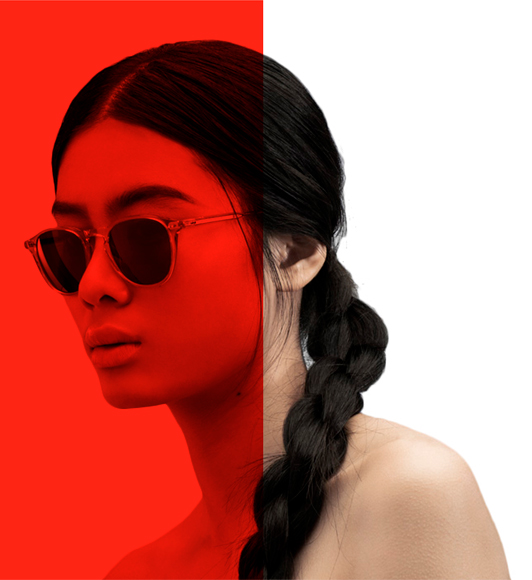
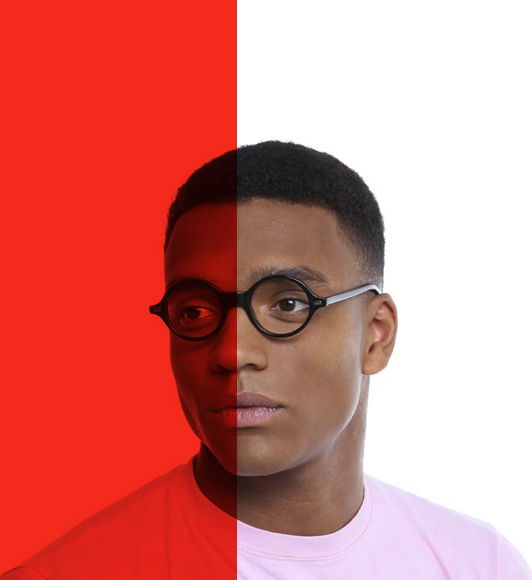
actual

diff --git a/vistas/css/main.css b/vistas/css/main.css
@@ -22,12 +22,12 @@ h1,h2,h3,h4,h5,h6,p {
 }
 h1,h2,h3,h4,h5,h6 { font-weight: 500; }
 h1 {
-  font-size: 1.35rem;
+  font-size: 3rem;
   line-height: 1.2;
 }
 h2 {
-  font-size: 2.488rem;
-  line-height: 1.25;
+  font-size: 1rem;
+  /* line-height: 1.25; */
 }
 h3 {
   font-size: 1rem;
@@ -421,29 +421,67 @@ li a[class*="icon-"]:hover{
   opacity: 0.9;
 }
 
-#slide {
-  position: relative;
+#slide, .slide1 {
+  position: absolute;
   height: 100vh;
+  display: flex;
+  align-items: center;
+}
+
+.slide2{
+  position: absolute;
+  height: 100vh;
+  display: flex;
+  align-items: center;
 }
 
 #slide > div li img {
-  width: auto;
+  max-width: 532px;
   position: absolute;
   bottom: 0;
   left: 0;
 }
 
 #slide ul {
-  width: 90%;
+  width: 100%;
   height: 100%;
-  display: flex;
-  justify-content: space-between;
-  align-items: center;
+  position: absolute;
+  top: 0;
 }
 
-.capa{
-  display: none;
+#slide ul li{
+  width: 50%;
 }
+
+.descripcion {
+  position: relative;
+}
+
+.descripcion span{
+  background-color: #f32a1c;;
+  width: auto;
+  padding: 3px;
+  color: #fff;
+}
+
+.descripcion h1 {
+  text-transform: uppercase;
+  font-weight: 600;
+   margin-top: 10px;
+}
+
+
+
+.descripcion button {
+  width: auto;
+  background-color: transparent;
+  color: #f32a1c;
+  border: 2px solid #f32a1c;
+  padding: .5rem;
+  margin-top: 10px;
+  text-transform: uppercase;
+}
+
 /* Desktops and laptops ----------- */
 @media only screen 
 and (min-width : 1224px) {

diff --git a/vistas/modulos/slide.php b/vistas/modulos/slide.php
@@ -1,19 +1,51 @@
 <div class="fila" id="slide">
 	<div class="col-10">
 		<ul>
-			<li class="capa"></li>
-			<li>
-				<img width="150" src="vistas/img/plantilla/lentes.jpg" alt="">
-			</li>
-			<li>
-				<div class="descripcion">	
-					<hgroup>
-						<h1>nombre producto</h1>
-						<h2>descripcion producto</h2>
-					</hgroup>
-					<button>Producto</button>
-				</div>
-			</li>
+			<div class="slide1">
+				<!-- Slider 1 -->
+				<li>
+					<img width="150" src="vistas/img/plantilla/lentes.jpg" alt="">
+				</li>
+				
+				<li>
+					<div class="descripcion">
+						<span>Categoria</span>	
+						<hgroup>
+							<h1>Supreme/Black</h1>
+							<h2>
+								Lentes bien padrotes creados  con el mismisimo martillo de Tor,
+								con mica blindada nivel 6 para aguantar pinshis balazos !!...
+								Pium pium !! 
+							</h2>
+						</hgroup>
+						<button>Ir Producto</button>
+					</div>
+				</li>
+			</div>
+			<!-- Slider 2 -->
+			<div class="slide2">			
+				<li>
+					<img width="150" src="vistas/img/plantilla/lentes_2.jpg" alt="">
+				</li>
+				
+				<li>
+					<div class="descripcion">
+						<span>Categoria 2</span>	
+						<hgroup>
+							<h1>Supreme/White</h1>
+							<h2>
+								Lentes bien padrotes creados  con el mismisimo martillo de Tor,
+								con mica blindada nivel 6 para aguantar pinshis balazos !!...
+								Pium pium !! 
+							</h2>
+						</hgroup>
+						<button>Ir Producto</button>
+					</div>
+				</li>
+			</div>
+
+
+
 		</ul>
 	</div>
 	<div class="col-2">

diff --git a/modelos/conexion.php b/modelos/conexion.php
@@ -2,20 +2,11 @@
 class Conexion{
 	static public function conectar(){
 		$link = new PDO("mysql:host=localhost;dbname=ecommerce_",
-<<<<<<< HEAD
 			"root",
 			"41663963ck",
 			array(PDO::ATTR_ERRMODE => PDO::ERRMODE_EXCEPTION,
 				PDO::MYSQL_ATTR_INIT_COMMAND => "SET NAMES utf8")
 		);
-=======
-						"root",
-						"",
-						array(PDO::ATTR_ERRMODE => PDO::ERRMODE_EXCEPTION,
-		                      PDO::MYSQL_ATTR_INIT_COMMAND => "SET NAMES utf8")
-						);
-
->>>>>>> e744952d1bf7b4ecc974a39bdbcbfd7fac148737
 		return $link;
 	}
 }

diff --git a/modelos/rutas.php b/modelos/rutas.php
@@ -1,17 +1,9 @@
 <?php 
-<<<<<<< HEAD
+
 // Cambiar cuando este en produccion
 class Ruta{
 	static public function ctrRuta(){
 		return "http://localhost:8085/ecommerce_/";
 	}
 }
-=======
-	// Cambiar cuando este en produccion
-	class Ruta{
-		static public function ctrRuta(){
-			return "http://localhost/ecommerce_/";
 
-		}
-	}
->>>>>>> e744952d1bf7b4ecc974a39bdbcbfd7fac148737
